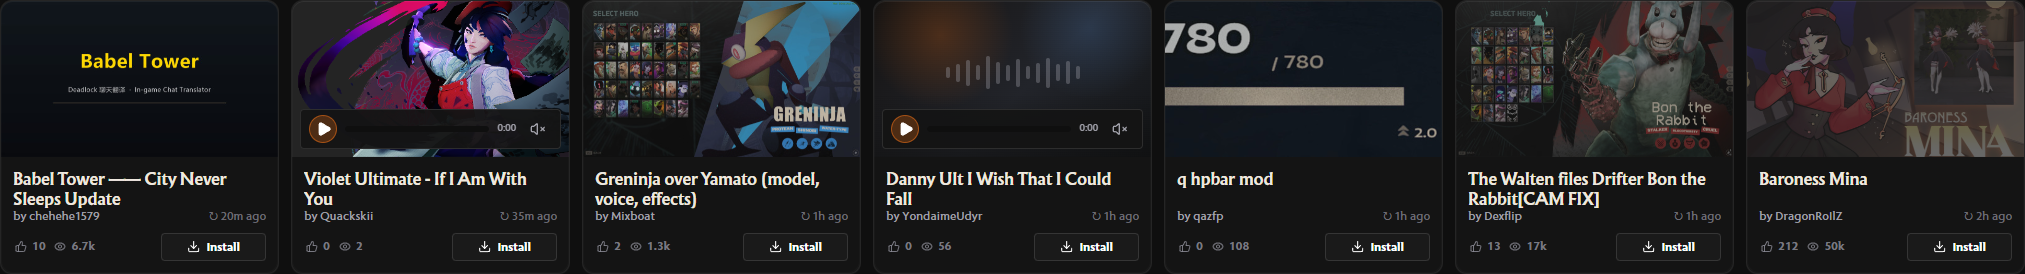
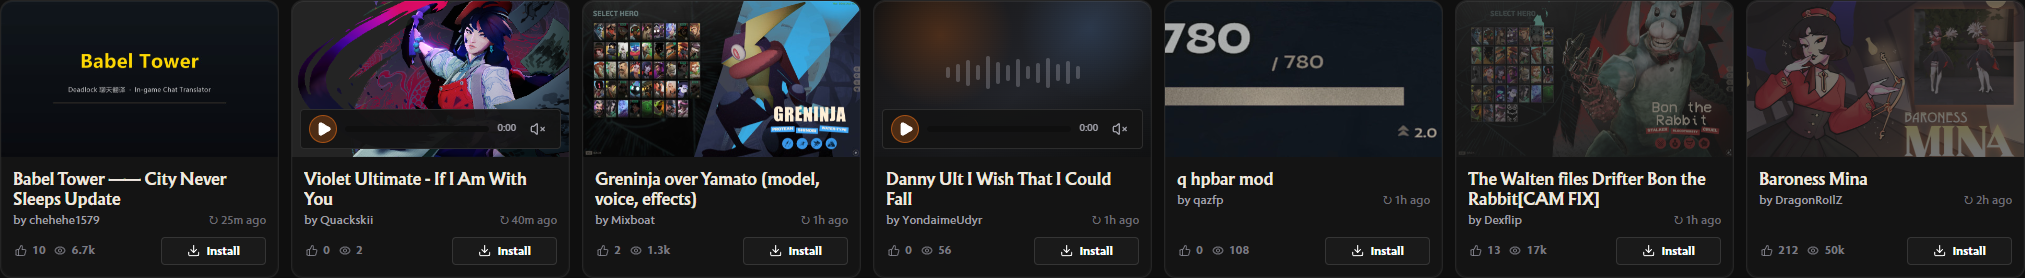
fix(browse): keep card titles and authors together

diff --git a/src/components/browse/BrowseModCard.tsx b/src/components/browse/BrowseModCard.tsx
@@ -198,13 +198,13 @@ function ReadableBrowseModCard({
           {/* font-semibold, not font-bold: Reaver ships only a 600 face, so
               bolder weights get synthetic (smeared, blurry) emboldening. */}
           <h3
-            className={`line-clamp-2 font-mod-title font-semibold text-mod-title ${isMicro ? 'h-8 text-xs leading-4' : 'h-10 text-base leading-5'}`}
+            className={`line-clamp-2 font-mod-title font-semibold text-mod-title ${isMicro ? 'text-xs leading-4' : 'text-base leading-5'}`}
             title={mod.name}
           >
             {mod.name}
           </h3>
           {showAuthor && (
-            <div className="flex h-4 min-w-0 items-center gap-2 text-xs leading-4">
+            <div className="mt-1 flex h-4 min-w-0 items-center gap-2 text-xs leading-4">
               <p className="min-w-0 flex-1 truncate text-text-secondary" title={mod.submitter?.name}>
                 by {mod.submitter?.name ?? t('browse.card.unknownAuthor')}
               </p>

diff --git a/src/components/browse/cardGeometry.ts b/src/components/browse/cardGeometry.ts
@@ -28,7 +28,7 @@ export function getReadableDensity(targetWidth: number): BrowseReadableDensity {
 // Every result reserves the same title and footer rows. Sound playback lives
 // inside the artwork, so it does not change the grid geometry.
 function estimateReadableCardBodyHeight(density: BrowseReadableDensity): number {
-  return density === 'micro' ? 16 + 32 + 8 + 24 : 24 + 40 + 16 + 8 + 28;
+  return density === 'micro' ? 16 + 32 + 8 + 24 : 24 + 40 + 4 + 16 + 8 + 28;
 }
 
 export function estimateBrowseRowHeight(
